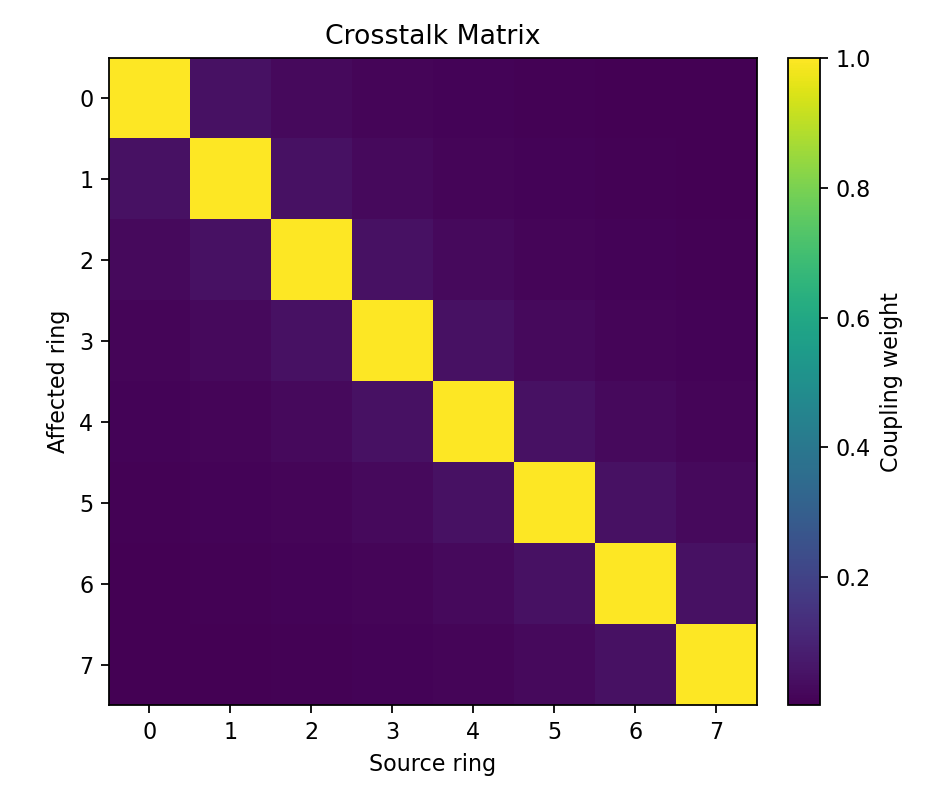
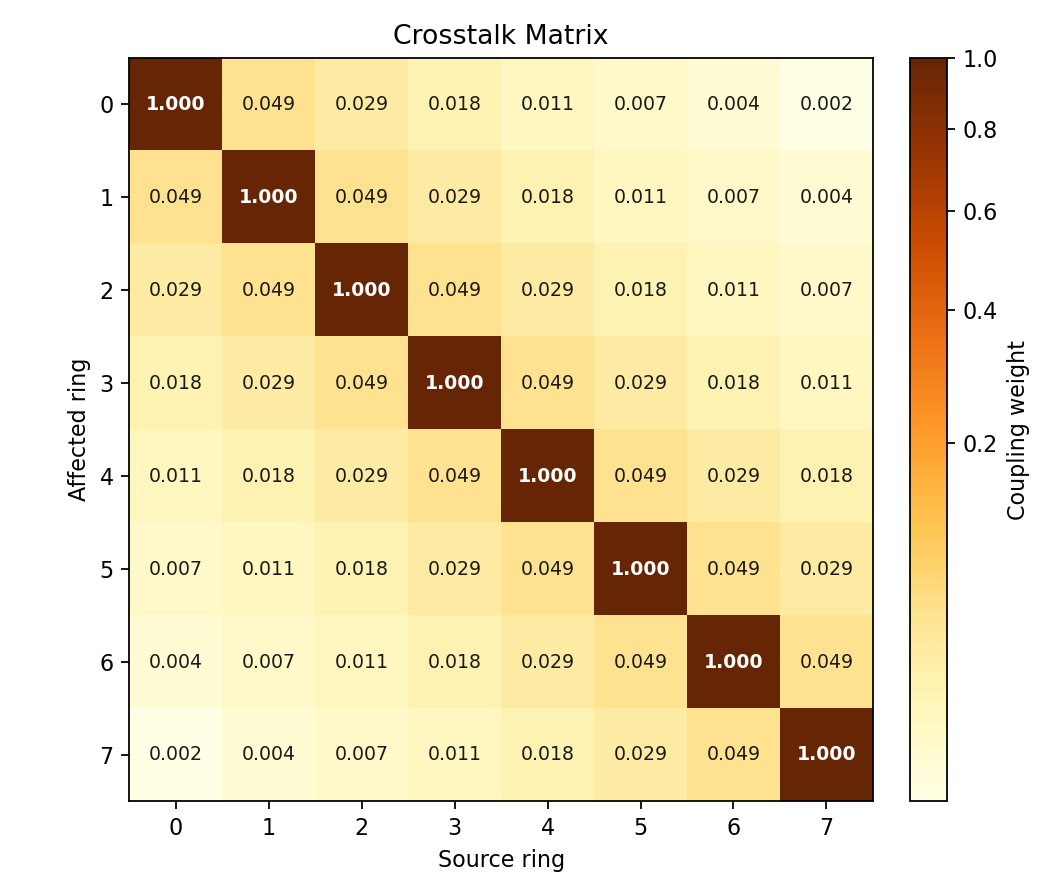
Improve visual overview plots and labels

diff --git a/examples/plot_mrr_visual_overview.py b/examples/plot_mrr_visual_overview.py
@@ -4,6 +4,7 @@ from pathlib import Path
 
 import matplotlib.pyplot as plt
 import numpy as np
+from matplotlib.colors import PowerNorm
 
 ROOT = Path(__file__).resolve().parents[1]
 if str(ROOT) not in sys.path:
@@ -27,6 +28,7 @@ def parse_args():
     parser.add_argument("--thermal-tau-ms", type=float, default=8.0)
     parser.add_argument("--crosstalk-alpha", type=float, default=0.08)
     parser.add_argument("--crosstalk-decay-length", type=float, default=2.0)
+    parser.add_argument("--extinction-ratio-db", type=float, default=15.0)
     parser.add_argument("--settle-ms", type=float, default=30.0)
     parser.add_argument("--output-dir", type=str, default="examples/outputs/mrr_visual_overview")
     return parser.parse_args()
@@ -64,20 +66,33 @@ def save_spectrum_plot(path: Path, plant: MRRArrayPlant) -> None:
     )
     transmission = plant.total_through_transmission(wavelengths_nm)
     spectrum_db = 10.0 * np.log10(np.maximum(transmission, 1e-12))
+    display_floor_db = -45.0
+    display_spectrum_db = np.maximum(spectrum_db, display_floor_db)
 
     fig, ax = plt.subplots(figsize=(10, 4.8))
-    ax.plot(wavelengths_nm, spectrum_db, color="#0f4c81", lw=1.5)
-    ax.set_title("Through Spectrum")
+    ax.plot(wavelengths_nm, display_spectrum_db, color="#1f5aa6", lw=1.7, label="Through spectrum")
+    ax.set_title(f"Through Spectrum (per-ring extinction ratio = {plant.config.extinction_ratio_db:.1f} dB)")
     ax.set_xlabel("Wavelength (nm)")
     ax.set_ylabel("Transmission (dB)")
     ax.grid(True, alpha=0.25)
+    ax.set_ylim(display_floor_db, 0.5)
 
     for value in plant.base_resonances_nm:
-        ax.axvline(float(value), color="#999999", lw=0.8, alpha=0.3)
+        ax.axvline(float(value), color="#b8b8b8", lw=0.8, alpha=0.35)
 
     state = plant.latent_state()
     for value in state.effective_resonances_nm:
-        ax.axvline(float(value), color="#c0392b", lw=0.9, alpha=0.45)
+        ax.axvline(float(value), color="#d66a4e", lw=0.9, alpha=0.55)
+
+    ax.text(
+        0.01,
+        0.03,
+        f"display clipped at {display_floor_db:.0f} dB for readability",
+        transform=ax.transAxes,
+        fontsize=9,
+        color="#555555",
+    )
+    ax.legend(loc="upper right")
 
     fig.tight_layout()
     fig.savefig(path, dpi=160)
@@ -86,13 +101,33 @@ def save_spectrum_plot(path: Path, plant: MRRArrayPlant) -> None:
 
 def save_crosstalk_heatmap(path: Path, plant: MRRArrayPlant) -> None:
     matrix = plant.crosstalk_matrix
-    fig, ax = plt.subplots(figsize=(5.8, 5.0))
-    im = ax.imshow(matrix, cmap="viridis")
+    fig, ax = plt.subplots(figsize=(6.6, 5.6))
+    positive_entries = matrix[matrix > 0]
+    vmin = float(np.min(positive_entries)) if positive_entries.size else 1e-6
+    im = ax.imshow(
+        matrix,
+        cmap="YlOrBr",
+        norm=PowerNorm(gamma=0.45, vmin=vmin, vmax=float(np.max(matrix))),
+    )
     ax.set_title("Crosstalk Matrix")
     ax.set_xlabel("Source ring")
     ax.set_ylabel("Affected ring")
     ax.set_xticks(range(plant.num_rings))
     ax.set_yticks(range(plant.num_rings))
+    for row in range(plant.num_rings):
+        for col in range(plant.num_rings):
+            value = matrix[row, col]
+            text_color = "#1a1a1a" if value < 0.45 else "white"
+            ax.text(
+                col,
+                row,
+                f"{value:.3f}",
+                ha="center",
+                va="center",
+                fontsize=8.5,
+                color=text_color,
+                fontweight="bold" if row == col else None,
+            )
     fig.colorbar(im, ax=ax, fraction=0.046, pad=0.04, label="Coupling weight")
     fig.tight_layout()
     fig.savefig(path, dpi=160)
@@ -105,11 +140,22 @@ def save_crosstalk_profile(path: Path, plant: MRRArrayPlant) -> None:
     profile = plant.crosstalk_matrix[center]
 
     fig, ax = plt.subplots(figsize=(8.2, 4.5))
-    ax.bar(offsets, profile, color="#1f77b4")
+    bars = ax.bar(offsets, profile, color="#c97b36", edgecolor="#7a4318", linewidth=0.8)
     ax.set_title(f"Crosstalk Profile From Ring {center}")
     ax.set_xlabel("Ring offset")
     ax.set_ylabel("Coupling weight")
     ax.grid(True, axis="y", alpha=0.25)
+    for bar, value in zip(bars, profile):
+        ax.text(
+            bar.get_x() + bar.get_width() / 2.0,
+            bar.get_height() + 0.01,
+            f"{value:.3f}",
+            ha="center",
+            va="bottom",
+            fontsize=9,
+            color="#5a2d0c",
+        )
+    ax.set_ylim(0.0, max(1.08, float(np.max(profile)) + 0.08))
     fig.tight_layout()
     fig.savefig(path, dpi=160)
     plt.close(fig)
@@ -133,6 +179,7 @@ def main():
             drift_sigma_nm_per_s=0.0,
             crosstalk_alpha=args.crosstalk_alpha,
             crosstalk_decay_length=args.crosstalk_decay_length,
+            extinction_ratio_db=args.extinction_ratio_db,
         ),
         rng=np.random.default_rng(0),
         action_config=ActionExecutorConfig(
